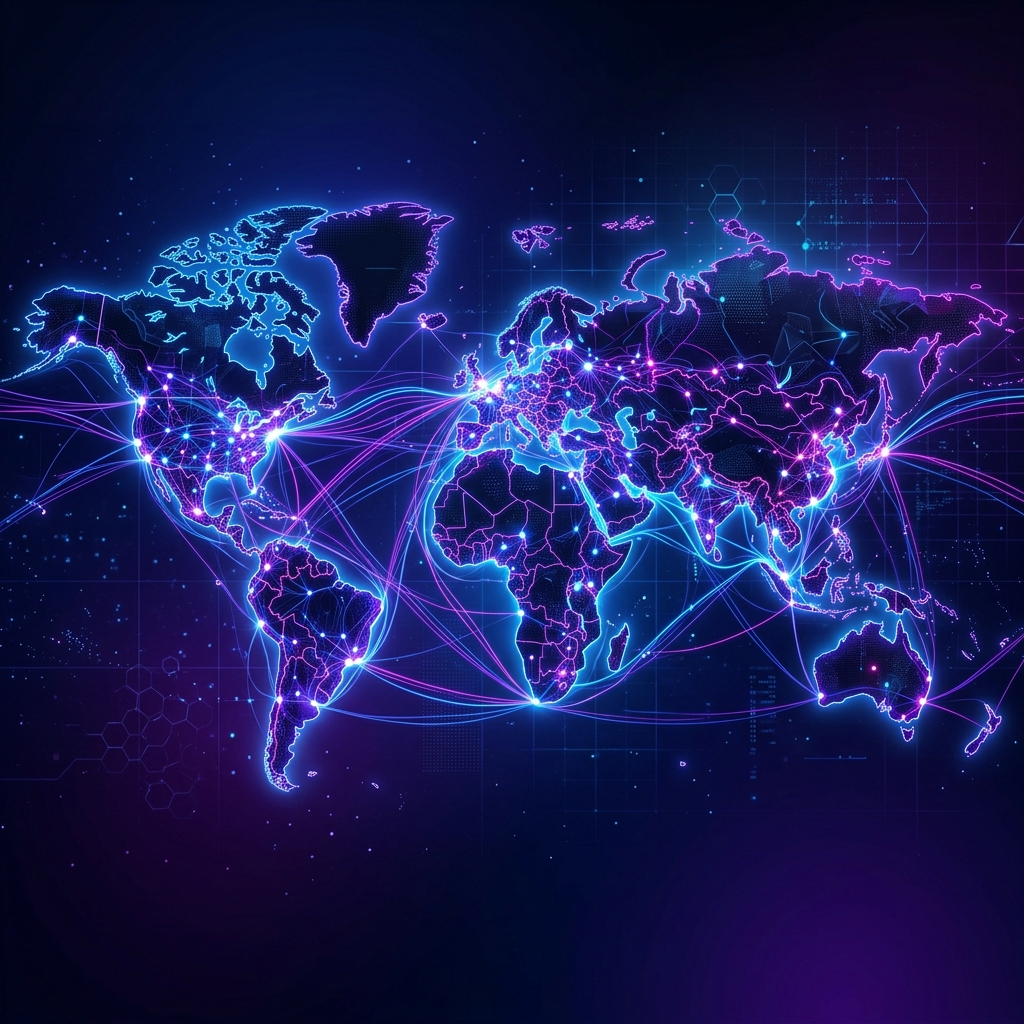
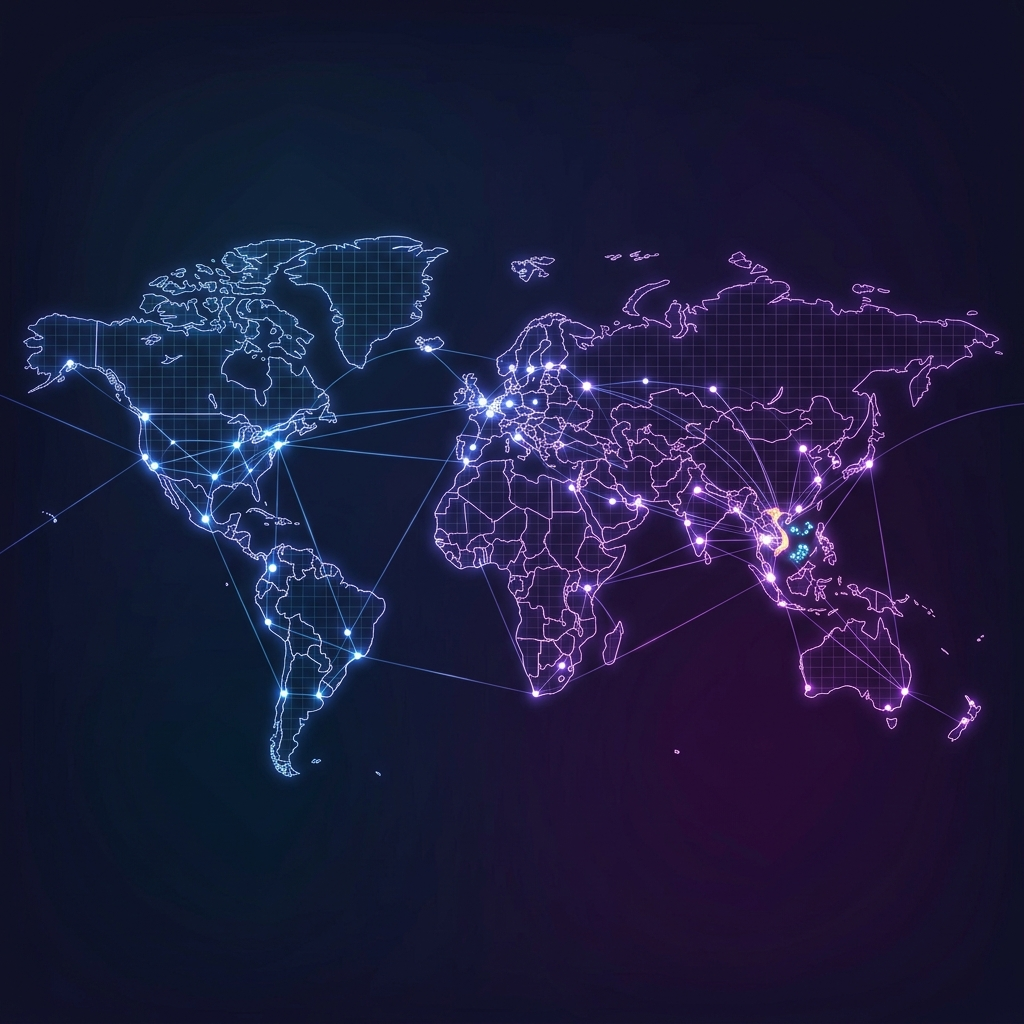
added portfolio

diff --git a/styles.css b/styles.css
@@ -814,6 +814,161 @@ img {
 }
 
 /* ================================================================
+   PRODUCTS SHOWCASE
+   ================================================================ */
+.products {
+  padding: var(--space-3xl) 0;
+  position: relative;
+  overflow: hidden;
+}
+
+.products__header {
+  max-width: 600px;
+  margin-bottom: var(--space-2xl);
+  text-align: center;
+  margin-left: auto;
+  margin-right: auto;
+}
+
+.products__title {
+  margin-bottom: var(--space-md);
+}
+
+.products__carousel-wrapper {
+  position: relative;
+}
+
+.products__carousel {
+  display: grid;
+  grid-template-columns: repeat(4, 1fr);
+  gap: var(--space-md);
+}
+
+.product-card {
+  position: relative;
+  border-radius: var(--radius-lg);
+  overflow: hidden;
+  background: var(--bg-card);
+  border: 1px solid var(--bg-glass-border);
+  transition: all var(--transition-smooth);
+  display: flex;
+  flex-direction: column;
+}
+
+.product-card:hover {
+  border-color: rgba(139, 92, 246, 0.25);
+  transform: translateY(-6px);
+  box-shadow: 0 20px 60px rgba(0, 0, 0, 0.4), var(--shadow-glow);
+}
+
+.product-card__image {
+  position: relative;
+  width: 100%;
+  aspect-ratio: 9 / 16;
+  overflow: hidden;
+  background: var(--bg-secondary);
+}
+
+.product-card__image img {
+  width: 100%;
+  height: 100%;
+  object-fit: cover;
+  transition: transform 0.6s cubic-bezier(0.4, 0, 0.2, 1);
+}
+
+.product-card:hover .product-card__image img {
+  transform: scale(1.05);
+}
+
+.product-card__image::after {
+  content: '';
+  position: absolute;
+  inset: 0;
+  background: linear-gradient(180deg, transparent 40%, rgba(7, 8, 13, 0.9) 100%);
+  pointer-events: none;
+}
+
+.product-card__body {
+  padding: var(--space-md);
+  flex: 1;
+  display: flex;
+  flex-direction: column;
+  gap: 0.6rem;
+}
+
+.product-card__category {
+  display: inline-flex;
+  align-items: center;
+  gap: 0.35rem;
+  width: fit-content;
+  padding: 0.25rem 0.75rem;
+  font-size: 0.7rem;
+  font-weight: 600;
+  text-transform: uppercase;
+  letter-spacing: 0.1em;
+  border-radius: 100px;
+  background: rgba(139, 92, 246, 0.12);
+  color: var(--accent-purple-light);
+  border: 1px solid rgba(139, 92, 246, 0.15);
+}
+
+.product-card__category--faith {
+  background: rgba(251, 191, 36, 0.1);
+  color: #fbbf24;
+  border-color: rgba(251, 191, 36, 0.15);
+}
+
+.product-card__category--wellness {
+  background: rgba(251, 146, 60, 0.1);
+  color: #fb923c;
+  border-color: rgba(251, 146, 60, 0.15);
+}
+
+.product-card__category--fintech {
+  background: rgba(52, 211, 153, 0.1);
+  color: #34d399;
+  border-color: rgba(52, 211, 153, 0.15);
+}
+
+.product-card__category--social {
+  background: rgba(236, 72, 153, 0.1);
+  color: #ec4899;
+  border-color: rgba(236, 72, 153, 0.15);
+}
+
+.product-card__name {
+  font-family: var(--font-display);
+  font-size: 1.15rem;
+  font-weight: 600;
+  color: var(--text-primary);
+  line-height: 1.3;
+}
+
+.product-card__desc {
+  font-size: 0.85rem;
+  line-height: 1.6;
+  color: var(--text-muted);
+  flex: 1;
+}
+
+.product-card__tags {
+  display: flex;
+  flex-wrap: wrap;
+  gap: 0.35rem;
+  margin-top: 0.25rem;
+}
+
+.product-card__tag {
+  font-size: 0.65rem;
+  font-weight: 500;
+  padding: 0.2rem 0.5rem;
+  border-radius: 4px;
+  background: var(--bg-glass);
+  color: var(--text-muted);
+  border: 1px solid var(--bg-glass-border);
+}
+
+/* ================================================================
    CTA SECTION
    ================================================================ */
 .cta {
@@ -1058,6 +1213,10 @@ img {
     grid-template-columns: repeat(2, 1fr);
   }
 
+  .products__carousel {
+    grid-template-columns: repeat(2, 1fr);
+  }
+
   .feature-row {
     gap: var(--space-xl);
   }
@@ -1102,6 +1261,12 @@ img {
 
   .services__grid {
     grid-template-columns: 1fr;
+  }
+
+  .products__carousel {
+    grid-template-columns: 1fr;
+    max-width: 360px;
+    margin: 0 auto;
   }
 
   .feature-row {

diff --git a/index.html b/index.html
@@ -40,6 +40,7 @@
 
       <nav class="header__nav" aria-label="Main navigation">
         <a href="#what-we-do" class="header__nav-link" id="nav-what-we-do">What We Do</a>
+        <a href="#products" class="header__nav-link" id="nav-products">Products</a>
         <a href="#services" class="header__nav-link" id="nav-services">Services</a>
         <a href="#how-we-work" class="header__nav-link" id="nav-how-we-work">How We Work</a>
         <a href="#tech" class="header__nav-link" id="nav-tech">Tech</a>
@@ -58,6 +59,7 @@
   <!-- Mobile Nav Overlay -->
   <div class="mobile-nav" id="mobile-nav">
     <a href="#what-we-do" class="mobile-nav__link">What We Do</a>
+    <a href="#products" class="mobile-nav__link">Products</a>
     <a href="#services" class="mobile-nav__link">Services</a>
     <a href="#how-we-work" class="mobile-nav__link">How We Work</a>
     <a href="#tech" class="mobile-nav__link">Tech</a>
@@ -148,6 +150,94 @@
         <p class="what-we-do__description body-lg reveal">
           We combine deep expertise in AI, mobile engineering, and product design with a data-driven approach to user acquisition and growth — taking apps from zero to millions of users across the globe.
         </p>
+      </div>
+    </section>
+
+    <!-- ============================================================
+         PRODUCTS SHOWCASE
+         ============================================================ -->
+    <section class="products" id="products">
+      <div class="container">
+        <div class="products__header reveal">
+          <span class="section-label">Our Products</span>
+          <h2 class="display-md products__title">Apps we've <span class="gradient-text">brought to life</span></h2>
+          <p class="body-md">A glimpse at the diverse range of applications we've designed, built, and scaled for the global market.</p>
+        </div>
+
+        <div class="products__carousel-wrapper">
+          <div class="products__carousel">
+
+            <!-- Card 1 — Christian Companion -->
+            <article class="product-card reveal" id="product-christian">
+              <div class="product-card__image">
+                <img src="assets/images/app-christian.png" alt="AI-powered Christian companion app with Bible study features" loading="lazy">
+              </div>
+              <div class="product-card__body">
+                <span class="product-card__category product-card__category--faith">✝ Faith & Spirituality</span>
+                <h3 class="product-card__name">Christian Companion</h3>
+                <p class="product-card__desc">AI-powered companion for Bible study through verses, devotions, and podcasts. Chat with virtual Christian fellows and pastors for guidance.</p>
+                <div class="product-card__tags">
+                  <span class="product-card__tag">AI Chat</span>
+                  <span class="product-card__tag">Bible Study</span>
+                  <span class="product-card__tag">Devotions</span>
+                  <span class="product-card__tag">Podcasts</span>
+                </div>
+              </div>
+            </article>
+
+            <!-- Card 2 — Daily Affirmation -->
+            <article class="product-card reveal reveal-delay-1" id="product-affirmation">
+              <div class="product-card__image">
+                <img src="assets/images/app-affirmation.png" alt="Daily affirmation and wellness app with motivational content" loading="lazy">
+              </div>
+              <div class="product-card__body">
+                <span class="product-card__category product-card__category--wellness">☀ Wellness</span>
+                <h3 class="product-card__name">Daily Affirmation</h3>
+                <p class="product-card__desc">Start every morning with personalized affirmations, mindfulness routines, and gratitude journaling to cultivate a positive mindset.</p>
+                <div class="product-card__tags">
+                  <span class="product-card__tag">Affirmations</span>
+                  <span class="product-card__tag">Mindfulness</span>
+                  <span class="product-card__tag">Journaling</span>
+                </div>
+              </div>
+            </article>
+
+            <!-- Card 3 — Crypto Companion -->
+            <article class="product-card reveal reveal-delay-2" id="product-crypto">
+              <div class="product-card__image">
+                <img src="assets/images/app-crypto.png" alt="Cryptocurrency investment companion with portfolio tracking" loading="lazy">
+              </div>
+              <div class="product-card__body">
+                <span class="product-card__category product-card__category--fintech">📊 Fintech</span>
+                <h3 class="product-card__name">Crypto Investment Companion</h3>
+                <p class="product-card__desc">Track your crypto portfolio, follow real-time market data, get AI-powered insights, and make smarter investment decisions.</p>
+                <div class="product-card__tags">
+                  <span class="product-card__tag">Portfolio</span>
+                  <span class="product-card__tag">Market Data</span>
+                  <span class="product-card__tag">AI Insights</span>
+                </div>
+              </div>
+            </article>
+
+            <!-- Card 4 — Virtual Girlfriend -->
+            <article class="product-card reveal reveal-delay-3" id="product-virtual-gf">
+              <div class="product-card__image">
+                <img src="assets/images/app-virtual-gf.png" alt="AI virtual companion chat app with social features" loading="lazy">
+              </div>
+              <div class="product-card__body">
+                <span class="product-card__category product-card__category--social">💬 AI Social</span>
+                <h3 class="product-card__name">Virtual Girlfriend</h3>
+                <p class="product-card__desc">Chat with virtual idols, follow their daily-updated photo & video feeds, and create your own characters and scenarios powered by AI.</p>
+                <div class="product-card__tags">
+                  <span class="product-card__tag">AI Chat</span>
+                  <span class="product-card__tag">Social Feed</span>
+                  <span class="product-card__tag">Character AI</span>
+                </div>
+              </div>
+            </article>
+
+          </div>
+        </div>
       </div>
     </section>
 